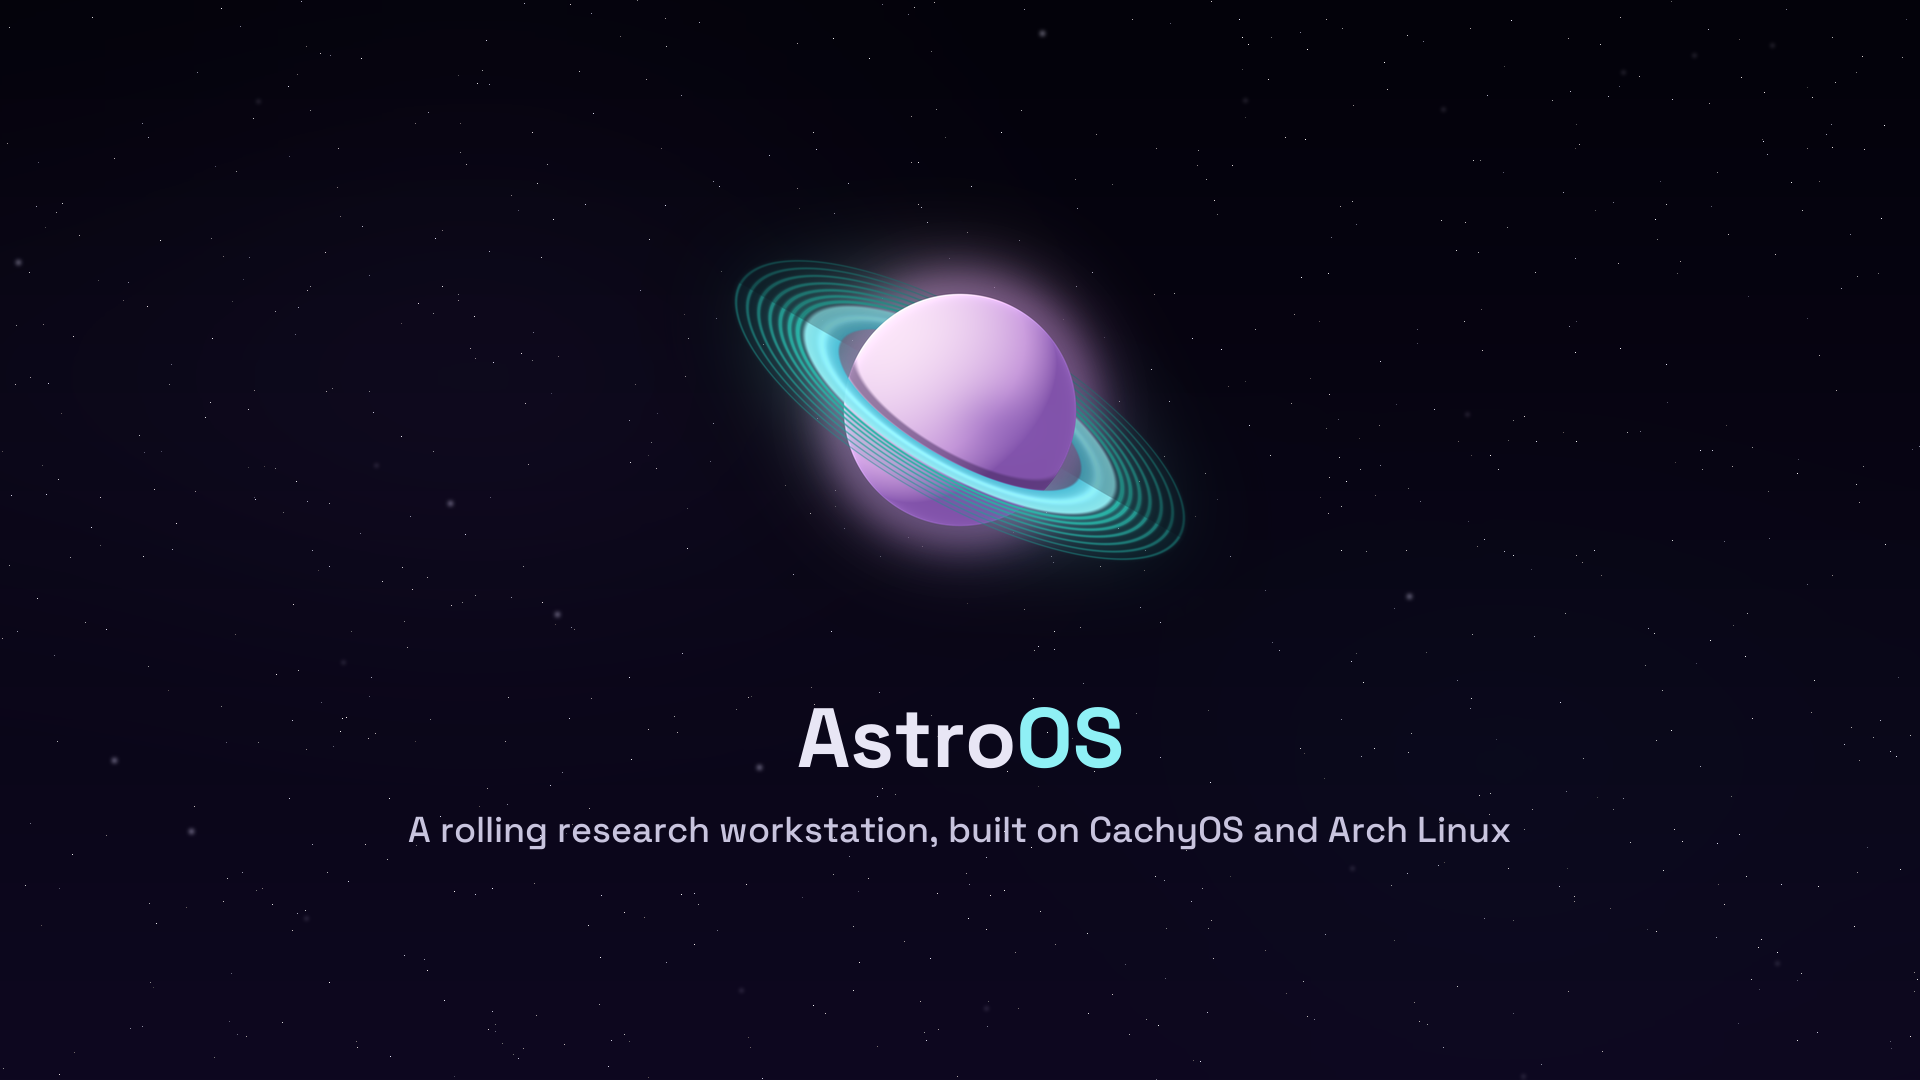
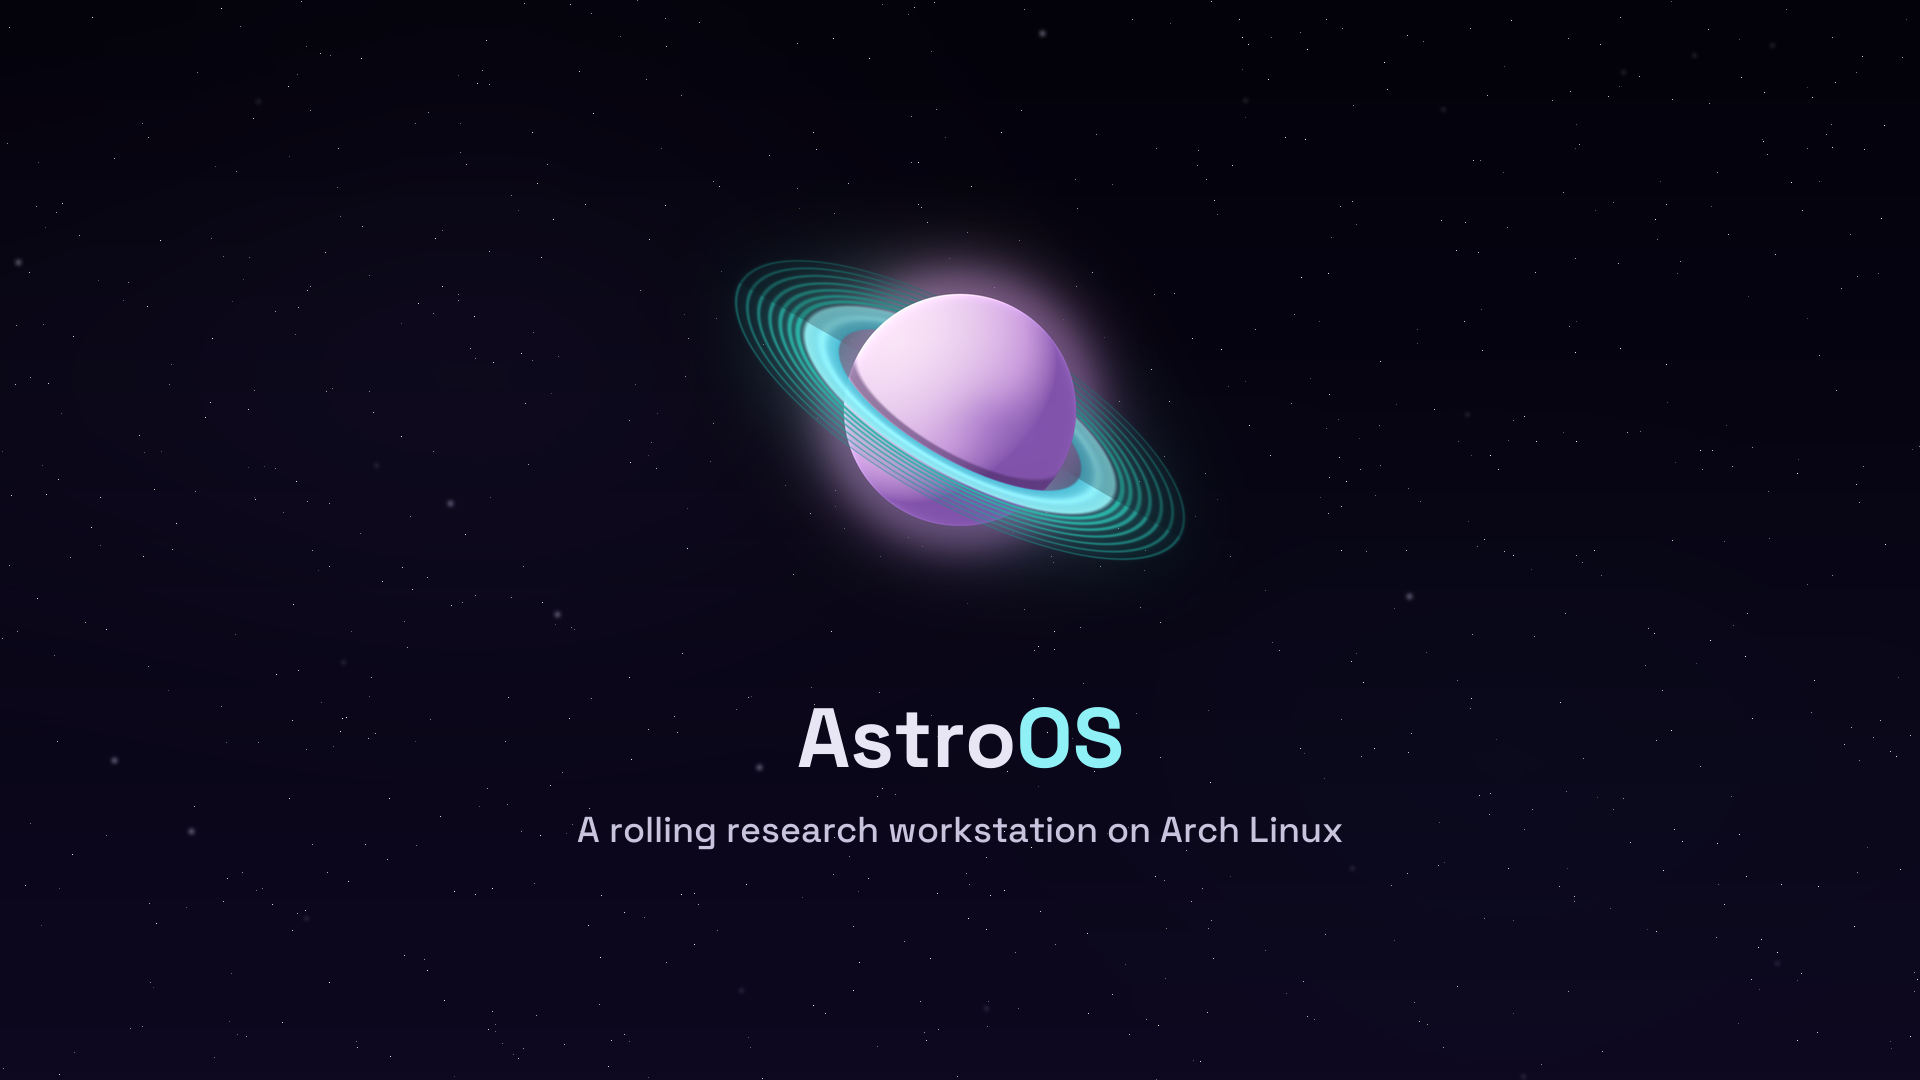
clean the last branding

Changed region(s): [[0.2188, 0.7333, 0.7812, 0.7944]]

diff --git a/astroos/branding/assetgen.py b/astroos/branding/assetgen.py
@@ -168,7 +168,7 @@ def watermark(logo, outdir):
     logo.resize((w, h), Image.LANCZOS).save(os.path.join(outdir, "watermark.png"))
 
 
-def ansi_logo(logo, outdir, cols=36):
+def ansi_logo(logo, outdir, cols=32):
     """Truecolor half-block terminal art for fastfetch (file-raw logo).
 
     Transparent cells stay unpainted (a plain space), so the logo sits on the
@@ -283,7 +283,7 @@ def scene(logo, w, h, logo_frac, logo_cy, title, subtitle, title_px, sub_px):
 
 
 SLIDES = (
-    ("AstroOS", "A rolling research workstation, built on CachyOS and Arch Linux"),
+    ("AstroOS", "A rolling research workstation on Arch Linux"),
     (
         "Astronomy stack included",
         "Stellarium, KStars, AstrOmatic, Siril, DS9, TOPCAT, Aladin, sunpy, healpy",
@@ -296,7 +296,7 @@ SLIDES = (
 
 
 def calamares(logo, outdir):
-    """Installer branding component images (sizes match the CachyOS component)."""
+    """Installer branding component images (sizes match the upstream component)."""
     d = os.path.join(outdir, "calamares")
     os.makedirs(d, exist_ok=True)
     sq = square(logo)
@@ -309,7 +309,7 @@ def calamares(logo, outdir):
         0.30,
         0.40,
         "AstroOS",
-        "Research workstation. Built on CachyOS and Arch Linux.",
+        "Research workstation. Built on Arch Linux.",
         56,
         24,
     ).save(os.path.join(d, "welcome.png"))
@@ -327,7 +327,11 @@ GRUB_ENTRIES = (
     "UEFI Firmware Settings",
     "AstroOS Linux snapshots",
 )
-KERNEL = "7.2.2-1-cachyos"
+# Entry labels in these previews are the generic ones ("Linux", "Linux LTS"):
+# a real menu prints the kernel package's own version string, which is not
+# AstroOS's to rename, and these images are the page's illustration of the
+# menu's shape and branding, not a screenshot of one machine.
+KERNEL_MAIN, KERNEL_LTS = "Linux", "Linux LTS"
 
 
 def preview_grub(logo, outdir, w=1600, h=1000):
@@ -396,14 +400,18 @@ def preview_limine(logo, outdir, w=1600, h=1000):
     for key, label in (("ARROWS", "Select"), ("ENTER", "Boot"), ("E", "Edit")):
         hint(x, y, key, label)
         x += d.textlength(key + " " + label, font=mono) + w * 0.03
-    x = w * 0.69
-    for key, label in (("S", "Firmware Setup"), ("B", "Blank Entry")):
+    right = (("S", "Firmware Setup"), ("B", "Blank Entry"))
+    total = sum(d.textlength(k + " " + l, font=mono) for k, l in right) + w * 0.03 * (
+        len(right) - 1
+    )
+    x = w * 0.92 - total
+    for key, label in right:
         hint(x, y, key, label)
         x += d.textlength(key + " " + label, font=mono) + w * 0.03
     cx, cy = w * 0.39, h * 0.49
     lh = h * 0.038
     d.text((cx, cy), "[-] AstroOS", font=mono, fill=white, anchor="lm")
-    sel = "linux-cachyos"
+    sel = KERNEL_MAIN
     tw = d.textlength(sel, font=mono)
     d.text((cx + w * 0.012, cy + lh), "├──▶", font=mono, fill=white, anchor="lm")
     ax = cx + w * 0.012 + d.textlength("├──▶ ", font=mono)
@@ -414,7 +422,7 @@ def preview_limine(logo, outdir, w=1600, h=1000):
     d.text((ax, cy + lh), sel, font=mono, fill=(22, 18, 40), anchor="lm")
     d.text(
         (cx + w * 0.012, cy + 2 * lh),
-        "└──▶ linux-cachyos-lts",
+        "└──▶ " + KERNEL_LTS,
         font=mono,
         fill=white,
         anchor="lm",
@@ -426,22 +434,19 @@ def preview_limine(logo, outdir, w=1600, h=1000):
         fill=white,
         anchor="lm",
     )
-    d.text(
-        (w * 0.05, h * 0.90),
-        "Kernel version: " + KERNEL,
-        font=mono,
-        fill=green,
-        anchor="lm",
-    )
     im.convert("RGB").save(os.path.join(outdir, "limine.png"))
 
 
 def preview_systemd_boot(outdir, w=1600, h=1000):
-    """systemd-boot has no theme: entries are titled from the kernel names."""
+    """systemd-boot has no theme: a plain text menu, titled per kernel."""
     im = Image.new("RGB", (w, h), (0, 0, 0))
     d = ImageDraw.Draw(im)
     mono = _font(int(h * 0.028), 400, mono=True)
-    entries = ("Linux Cachyos", "Linux Cachyos Lts", "Reboot Into Firmware Interface")
+    entries = (
+        "AstroOS " + KERNEL_MAIN,
+        "AstroOS " + KERNEL_LTS,
+        "Reboot Into Firmware Interface",
+    )
     lh = h * 0.045
     y0 = h * 0.46
     widest = max(d.textlength(e, font=mono) for e in entries)
@@ -499,12 +504,12 @@ def preview_refind(logo, outdir):
     base.alpha_composite(
         icon, (tx0 + (tx1 - tx0 - 172) // 2, ty0 + (ty1 - ty0 - 172) // 2)
     )
-    # status lines under the icons (kernel file name is real: the ESP is 4 GiB on AstroOS)
+    # status lines under the icons (the ESP is 4 GiB on AstroOS)
     d.rectangle((0, 738, w, 795), fill=bg)
     mono = _font(23, 400, mono=True)
     d.text(
         (w / 2, 755),
-        "Boot vmlinuz-linux-cachyos from 4 GiB FAT volume",
+        "Boot AstroOS from 4 GiB FAT volume",
         font=mono,
         fill=(48, 48, 48),
         anchor="mm",

diff --git a/astroos/branding/logo.py b/astroos/branding/logo.py
@@ -218,7 +218,7 @@ def write_svg(path, size=512):
       <stop offset="1" stop-color="{_hex(BAND_OUT)}"/>
     </linearGradient>
     <radialGradient id="halo" cx="0.5" cy="0.5" r="0.5">
-      <stop offset="0.62" stop-color="{_hex(GLOW_PINK)}" stop-opacity="0.30"/>
+      <stop offset="0.62" stop-color="{_hex(GLOW_PINK)}" stop-opacity="0.18"/>
       <stop offset="1" stop-color="{_hex(GLOW_PINK)}" stop-opacity="0"/>
     </radialGradient>
     <clipPath id="far"><rect x="{-big}" y="{-big}" width="{2 * big}" height="{big}" transform="rotate({th})"/></clipPath>
@@ -227,7 +227,7 @@ def write_svg(path, size=512):
   </defs>
   <g transform="translate({c:.2f} {c:.2f})">
     <circle r="{R * 1.42:.2f}" fill="url(#halo)"/>
-    <g transform="rotate({th})" opacity="0.30" filter="url(#soft)">
+    <g transform="rotate({th})" opacity="0.16" filter="url(#soft)">
       <ellipse rx="{1.35 * R:.2f}" ry="{1.35 * R * k:.2f}" fill="none" stroke="{_hex(GLOW_CYAN)}" stroke-width="{0.46 * R:.2f}"/>
     </g>
     <g clip-path="url(#far)"><g transform="rotate({th})" opacity="0.80">
